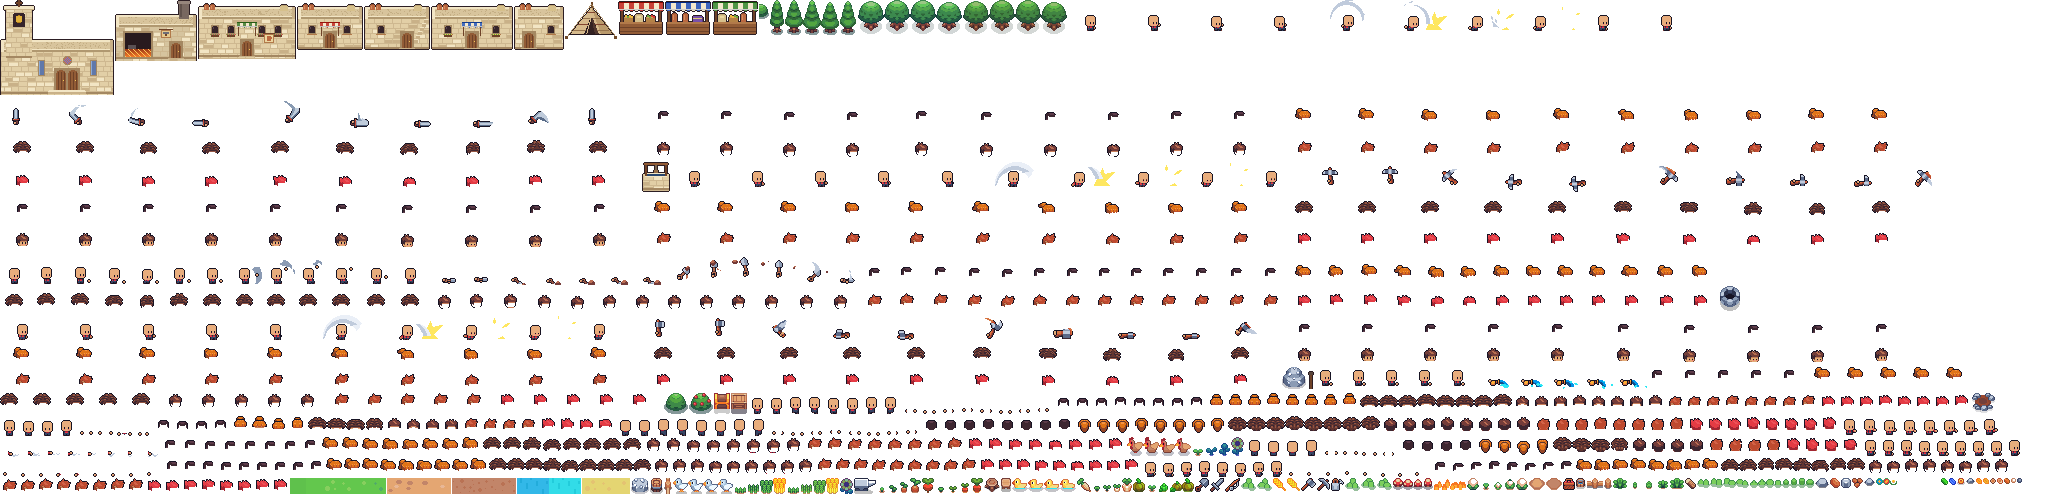
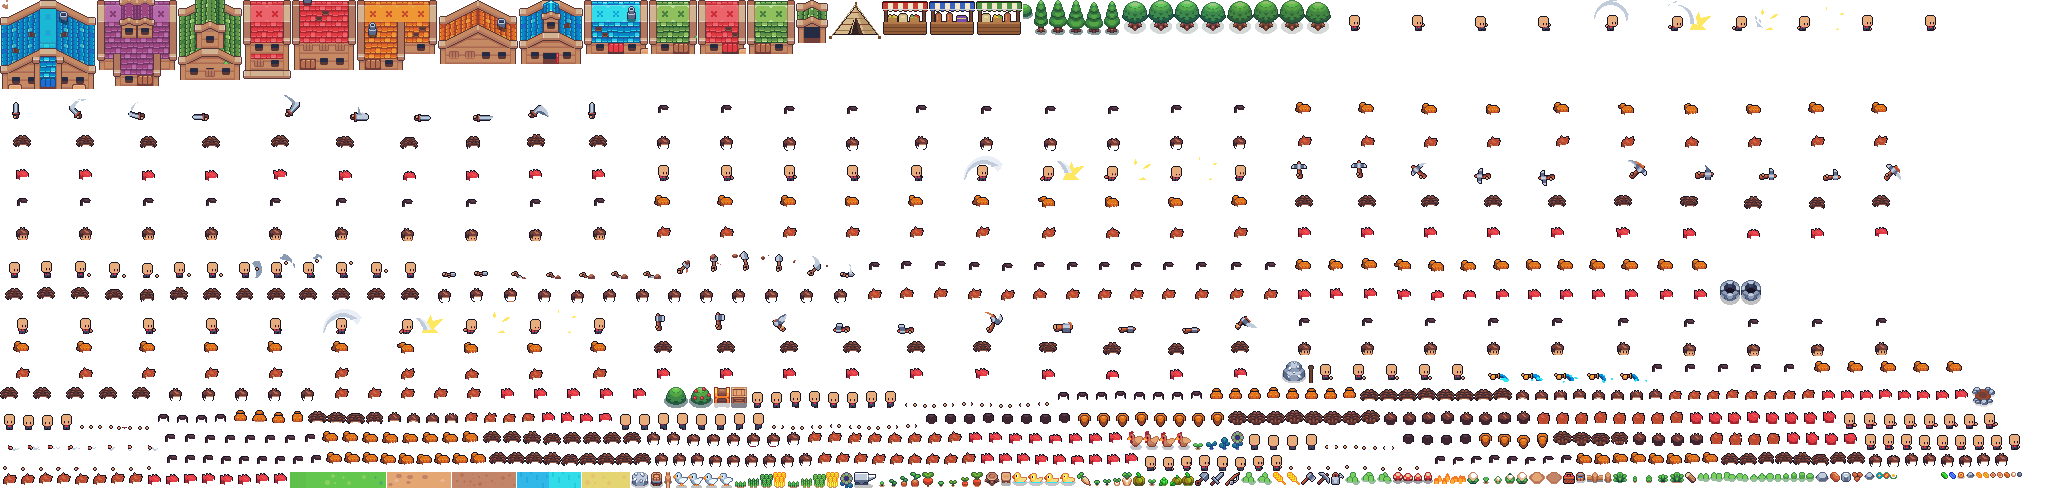
New town buildings, synagogue, carpenter with farmhouse/coop/barn, solid map borders, farm paving fix
Claude-Session: https://claude.ai/code/session_01C2kAzymCygSubPfDnKkPKq

diff --git a/public/js/world.js b/public/js/world.js
@@ -9,7 +9,7 @@ const OBJ = {
   stump: { tool: 'axe', hp: 3, solid: 1 }, twig: { tool: 'axe', hp: 1, solid: 1 },
   rock: { tool: 'pick', hp: 2, solid: 1 }, boulder: { tool: 'pick', hp: 5, solid: 1 },
   weed: { tool: 'scythe', hp: 1, solid: 1 }, grass: { tool: 'scythe', hp: 1, solid: 0 },
-  wild: { solid: 1 }, bush: { solid: 1 }, tent: { solid: 1 }, part: { solid: 1 }, campfire: { solid: 1 }, sign: { solid: 1 }, crate: { solid: 1 }, bin: { solid: 1 }, cart: { solid: 1 }, bld: { solid: 1 }, deco: { solid: 0 }, anvil: { solid: 1 }, torch: { solid: 1 }, barrel: { solid: 1 },
+  wild: { solid: 1 }, bush: { solid: 1 }, tent: { solid: 1 }, part: { solid: 1 }, campfire: { solid: 1 }, sign: { solid: 1 }, crate: { solid: 1 }, bin: { solid: 1 }, cart: { solid: 1 }, bld: { solid: 1 }, forge: { solid: 1 }, deco: { solid: 0 }, anvil: { solid: 1 }, torch: { solid: 1 }, barrel: { solid: 1 },
 };
 const World = {
   ground: null, objs: null, seed: 1,
@@ -24,7 +24,7 @@ const World = {
 
 // ---------- new farm ----------
 function genFarm(seed) {
-  const R = mulberry(seed); World.seed = seed;
+  const R = mulberry(seed); World.seed = seed; World.pave = null;
   const g = World.ground = new Uint8Array(W * H).fill(GRASS), o = World.objs = new Array(W * H).fill(null);
   const noise = (x, y, s) => { // smooth value noise
     const fx = x / s, fy = y / s, x0 = Math.floor(fx), y0 = Math.floor(fy), tx = fx - x0, ty = fy - y0, sm = t => t * t * (3 - 2 * t);
@@ -52,14 +52,15 @@ function genFarm(seed) {
   World.place(T.x + 3, T.y + 1, { t: 'campfire' });
   World.place(T.x - 3, T.y, { t: 'crate' });
   World.place(T.x + 3, T.y - 1, { t: 'bin' });
-  World.place(W - 3, World.EXIT.y - 2, { t: 'sign', text: 'East: the road to Bethlehem. Follow it to the market, the blacksmith, the inn and the church.' });
+  World.place(W - 3, World.EXIT.y - 2, { t: 'sign', text: 'East: the road to Bethlehem. Follow it to the market, the blacksmith, the inn, the carpenter and the synagogue.' });
   const keep = (x, y) => Math.hypot((x - T.x) / 5.5, (y - T.y - 1) / 4) < 1 || roadSet.has(idx(x, y));
   // forest border (cannot be cleared)
   for (let y = 0; y < H; y++) for (let x = 0; x < W; x++) {
     const edge = Math.min(x, y, W - 1 - x, H - 1 - y) + noise(x, y, 2) * 1.6;
     if (edge < 2.4 && !roadSet.has(idx(x, y)) && g[idx(x, y)] !== WATER) o[idx(x, y)] = { t: 'wild', k: pick(['oak', 'oak', 'pine', 'tree2']), v: ri(0, 3) };
-    else if (edge < 3.2 && !roadSet.has(idx(x, y)) && g[idx(x, y)] !== WATER && R() < .35) o[idx(x, y)] = { t: 'bush', v: ri(0, 1) };
+    else if (edge < 3.2 && !roadSet.has(idx(x, y)) && g[idx(x, y)] !== WATER) o[idx(x, y)] = { t: R() < .5 ? 'bush' : 'wild', k: pick(['oak', 'tree2']), v: ri(0, 1) };
   }
+  fillBorder(R);
   // overgrowth
   for (let y = 3; y < H - 3; y++) for (let x = 3; x < W - 3; x++) {
     const i = idx(x, y); if (o[i] || g[i] === WATER || keep(x, y)) continue;
@@ -172,7 +173,7 @@ const BIN = (() => {
 })();
 const SIGN = (() => { const c = mkc(16, 18), g = c.getContext('2d'); g.fillStyle = '#24141e'; g.fillRect(6, 8, 4, 10); g.fillRect(0, 0, 16, 11); g.fillStyle = '#8a5a34'; g.fillRect(7, 9, 2, 9); g.fillStyle = '#c99256'; g.fillRect(1, 1, 14, 9); g.fillStyle = '#a8703e'; g.fillRect(1, 8, 14, 2); g.fillStyle = '#6a4024'; g.fillRect(3, 3, 10, 1); g.fillRect(3, 5, 7, 1); return c })();
 function treeSprite(o, t, x, y) {
-  const set = o.t === 'olive' || (o.t === 'wild' && o.k === 'olive') ? AT.olive : (o.k === 'tree2' ? AT.tree2 : o.k === 'pine' ? AT.pine : AT.oak);
+  const set = o.t === 'olive' || (o.t === 'wild' && o.k === 'olive') ? AT.olive : (o.k === 'tree2' || o.k === 'pine' ? AT.tree2 : AT.oak);
   if (set.length === 1) return set[0];
   return set[Math.floor(t * 1.4 + hash(x, y) * 4) % set.length];
 }
@@ -195,8 +196,9 @@ function drawObject(g, o, x, y, t) {
     case 'campfire': shadow(7); spr(AT.campfire[0], 0); if (AT.fire) { const f = AT.fire[Math.floor(t * 9) % AT.fire.length]; g.drawImage(f, Math.round(cx - f.width / 2), Math.round(by - f.height - 5)) } break;
     case 'crate': shadow(7); spr(AT.crate[0], 0); break;
     case 'bin': spr(BIN, 4); break;
-    case 'bld': { const b = BLD[o.k], s = AT[b[0]][0], bx0 = x * 16 + b[1] * 8; g.fillStyle = 'rgba(30,20,10,.22)'; g.fillRect(Math.round(bx0 - s.width / 2) + 2, by - 3, s.width - 2, 4); g.drawImage(s, Math.round(bx0 - s.width / 2), by - s.height + 1); break }
+    case 'bld': { const b = BLD[o.k], s = AT[b[0]][0], bx0 = x * 16 + b[1] * 8; if (o.k === 'well') { g.fillStyle = '#5c8f3e'; g.beginPath(); g.ellipse(bx0, by - 6, 22, 11, 0, 0, 7); g.fill(); g.fillStyle = '#74b04a'; g.beginPath(); g.ellipse(bx0, by - 7, 20, 9, 0, 0, 7); g.fill() } g.fillStyle = 'rgba(30,20,10,.22)'; g.fillRect(Math.round(bx0 - s.width / 2) + 2, by - 3, s.width - 2, 4); g.drawImage(s, Math.round(bx0 - s.width / 2), by - s.height + 1); break }
     case 'anvil': shadow(6); spr(AT.anvil[0], 0); break;
+    case 'forge': shadow(7); spr(AT.campfire[0], 0); { const f = AT.fire[Math.floor(t * 10) % AT.fire.length]; g.drawImage(f, Math.round(cx - f.width / 2), Math.round(by - f.height - 5)); g.drawImage(f, Math.round(cx - f.width / 2) + 3, Math.round(by - f.height - 7)) } break;
     case 'barrel': shadow(6); spr(AT.barrel[0], 0); break;
     case 'torch': spr(AT.torch[0], 0); if (AT.fire) { const f = AT.fire[Math.floor(t * 9 + x) % AT.fire.length]; g.drawImage(f, Math.round(cx - f.width / 2), Math.round(by - 22 - f.height + 6)) } break;
     case 'cart': spr(CART, 2); break;
@@ -213,15 +215,24 @@ function storeMap(name) { World.maps[name] = { ground: World.ground, objs: World
 // ---------- Bethlehem ----------
 const TOWN = { entry: { x: 1, y: 27 }, plaza: { x: 34, y: 28 } };
 const BLD = { // sprite, width in tiles, depth in tiles (solid rows)
-  church: ['bld_church', 7, 3], smithy: ['bld_smithy', 5, 2], inn: ['bld_inn', 6, 2],
-  house1: ['bld_house1', 4, 2], house2: ['bld_house2', 4, 2], house3: ['bld_house3', 5, 2], house4: ['bld_house4', 3, 2],
-  stall_red: ['stall_red', 3, 1], stall_blue: ['stall_blue', 3, 1], stall_green: ['stall_green', 3, 1], well: ['well_big', 2, 1],
+  synagogue: ['bld_synagogue', 6, 3], smithy: ['bld_smithy', 4, 2], inn: ['bld_inn', 5, 3], carpenter: ['bld_carpenter', 5, 2],
+  houseA: ['bld_houseA', 4, 2], houseB: ['bld_houseB', 4, 2], houseC: ['bld_houseC', 4, 3], houseD: ['bld_houseD', 3, 2], houseE: ['bld_houseE', 3, 2], houseF: ['bld_houseF', 3, 3],
+  farmhouse: ['bld_farmhouse', 3, 2], barn: ['bld_barn', 5, 3], coop: ['bld_coop', 2, 2],
+  stall_red: ['stall_red', 3, 1], stall_blue: ['stall_blue', 3, 1], stall_green: ['stall_green', 3, 1], well: ['well_pack', 2, 1],
 };
 // place a building with its bottom-left cell at (x, y)
 function placeBld(x, y, k, extra) {
   const [, w, d] = BLD[k];
   for (let yy = y - d + 1; yy <= y; yy++) for (let xx = x; xx < x + w; xx++) World.objs[idx(xx, yy)] = { t: 'part', ox: x, oy: y };
   World.objs[idx(x, y)] = Object.assign({ t: 'bld', k }, extra || {});
+}
+// fill the outer ring of a map so nobody can slip between the trees at the edge
+function fillBorder(R) {
+  for (let y = 0; y < H; y++) for (let x = 0; x < W; x++) {
+    const i = idx(x, y), e = Math.min(x, y, W - 1 - x, H - 1 - y);
+    if (e > 2 || World.objs[i] || World.ground[i] === WATER || World.ground[i] === DIRT) continue;
+    World.objs[i] = e < 2 ? { t: 'wild', k: pick(['oak', 'tree2', 'oak']), v: ri(0, 3) } : { t: 'bush', v: 0 };
+  }
 }
 function genTown() {
   const g = World.ground = new Uint8Array(W * H).fill(GRASS), o = World.objs = new Array(W * H).fill(null), pv = World.pave = new Uint8Array(W * H); World.soil = {};
@@ -234,33 +245,34 @@ function genTown() {
   dirt(P.x, 12, P.x + 1, 46);                  // north-south
   dirt(P.x, 27, 58, 28);                       // east street
   dirt(16, 17, 30, 25);                        // market square
-  dirt(42, 22, 51, 25); dirt(42, 37, 50, 39);  // in front of the smithy and the inn
-  dirt(24, 12, 25, 18); dirt(24, 6, 25, 12);   // path north toward Mount Sinai
-  dirt(16, 36, 22, 38); dirt(24, 41, 29, 43); dirt(51, 31, 57, 33); dirt(12, 18, 16, 20);
-  dirt(35, 39, 42, 40); dirt(46, 25, 47, 27); dirt(22, 37, 33, 38); dirt(28, 42, 33, 43); dirt(54, 29, 55, 31);   // paths linking doors to the streets
+  dirt(24, 6, 25, 17);                         // path north toward Mount Sinai
   // paved plaza
   for (let y = P.y - 7; y <= P.y + 7; y++) for (let x = P.x - 10; x <= P.x + 10; x++) if (inb(x, y) && Math.hypot((x - P.x) / 8, (y - P.y) / 5.2) < 1) { pv[idx(x, y)] = 1; g[idx(x, y)] = DIRT }
-  // buildings
-  placeBld(31, 19, 'church');
+  // buildings (bottom-left cell) and the little paths to their doors
+  const B = [['synagogue', 31, 19], ['smithy', 44, 23], ['inn', 43, 38], ['carpenter', 13, 34],
+             ['houseA', 21, 38], ['houseB', 26, 43], ['houseC', 51, 33], ['houseD', 12, 20], ['houseE', 38, 44], ['houseF', 54, 42]];
+  for (const [k, x, y] of B) { const w = BLD[k][1]; dirt(x - 1, y + 1, x + w, y + 2) }
+  dirt(15, 29, 16, 35); dirt(22, 37, 33, 40); dirt(28, 42, 33, 45); dirt(36, 41, 37, 46); dirt(42, 39, 42, 41); dirt(36, 40, 43, 41);
+  dirt(46, 25, 47, 26); dirt(52, 29, 53, 34); dirt(55, 29, 56, 44); dirt(13, 21, 15, 23);
   placeBld(17, 22, 'stall_red', { shop: 'market' }); placeBld(21, 22, 'stall_blue', { shop: 'market' }); placeBld(25, 22, 'stall_green', { shop: 'market' });
-  placeBld(44, 23, 'smithy'); World.place(50, 23, { t: 'anvil' });
-  placeBld(43, 37, 'inn');
-  placeBld(17, 36, 'house1'); placeBld(24, 41, 'house2'); placeBld(52, 31, 'house3'); placeBld(12, 18, 'house4');
+  for (const [k, x, y] of B) placeBld(x, y, k);
+  World.place(49, 24, { t: 'anvil' }); World.place(50, 24, { t: 'forge' });
   placeBld(33, 28, 'well');
-  for (const [x, y] of [[26, 24], [42, 24], [26, 32], [42, 32], [30, 20], [38, 20], [42, 38], [49, 38], [16, 25]]) World.place(x, y, { t: 'torch' });
+  for (const [x, y] of [[26, 24], [42, 24], [26, 32], [42, 32], [30, 20], [38, 20], [42, 39], [49, 39], [16, 25], [12, 35]]) World.place(x, y, { t: 'torch' });
   World.place(2, 25, { t: 'sign', text: 'Bethlehem — “house of bread”. Your farm is back down the road to the west.' });
   World.place(26, 7, { t: 'sign', text: 'North: the road to Mount Sinai. (Not open yet.)' });
-  World.place(36, 46, { t: 'sign', text: 'South: the way to the Jordan River. (Not open yet.)' });
-  for (const [x, y, k] of [[48, 21, 'barrel'], [49, 21, 'crate'], [41, 36, 'barrel'], [50, 36, 'barrel'], [16, 21, 'crate'], [29, 21, 'barrel'], [22, 34, 'crate']]) World.place(x, y, { t: k });
-  for (const [x, y] of [[14, 24], [20, 30], [29, 36], [39, 34], [47, 30], [55, 26], [38, 15], [20, 14], [30, 44], [56, 37], [11, 33], [44, 44], [28, 10], [40, 10]]) World.place(x, y, { t: 'wild', k: 'olive', v: ri(0, 3) });
+  World.place(36, 47, { t: 'sign', text: 'South: the way to the Jordan River. (Not open yet.)' });
+  for (const [x, y, k] of [[48, 22, 'barrel'], [43, 22, 'crate'], [41, 37, 'barrel'], [48, 37, 'barrel'], [16, 21, 'crate'], [29, 21, 'barrel'], [19, 33, 'crate'], [12, 33, 'barrel'], [20, 33, 'crate']]) World.place(x, y, { t: k });
+  for (const [x, y] of [[14, 25], [20, 30], [29, 35], [39, 34], [47, 30], [55, 25], [39, 15], [20, 14], [31, 47], [58, 37], [10, 30], [45, 46], [28, 10], [40, 10], [10, 15], [57, 20]]) if (!o[idx(x, y)]) World.place(x, y, { t: 'wild', k: 'olive', v: ri(0, 3) });
   // forest edge and a few bushes
   for (let y = 0; y < H; y++) for (let x = 0; x < W; x++) {
     const i = idx(x, y); if (o[i] || g[i] === DIRT) continue;
-    const edge = Math.min(x, y, W - 1 - x, H - 1 - y) + noise(x, y, 2) * 1.6, inTown = x > 7 && x < 60 && y > 5 && y < 49;
-    if (edge < 2.4 || (!inTown && R() < .55)) o[i] = { t: 'wild', k: pick(['oak', 'oak', 'pine', 'tree2', 'olive']), v: ri(0, 3) };
+    const edge = Math.min(x, y, W - 1 - x, H - 1 - y) + noise(x, y, 2) * 1.6, inTown = x > 7 && x < 60 && y > 5 && y < 50;
+    if (edge < 2.4 || (!inTown && R() < .55)) o[i] = { t: 'wild', k: pick(['oak', 'oak', 'tree2', 'olive']), v: ri(0, 3) };
     else if (R() < .05) o[i] = { t: 'bush', v: 0 };
     else if (R() < .12) o[i] = { t: 'deco', v: ri(0, 7) };
   }
+  fillBorder(R);
 }
 // cobbled plaza
 const PAVE = (() => {

diff --git a/public/js/npc.js b/public/js/npc.js
@@ -4,7 +4,7 @@ const VILLAGERS = [
   { id: 'tobiah', name: 'Tobiah', role: 'Market merchant', shop: 'market', spot: [22.5, 24.9], roam: 1.2, look: { hair: 'curly', hairCol: 1, skin: 2, shirt: 5, pants: 0 },
     lines: ['Fresh seeds and fair prices! Well… mostly fair.', 'A heavy bag and light pockets? Let me help with that.', 'Caravans come through from Egypt to Damascus. Every one of them stops in Bethlehem for bread.', 'Barley comes in first, then wheat. Plant both and you’ll never go hungry.', 'I hear the Jordan is lovely this time of year. Not that I ever leave my stall.'],
     warm: ['You’re becoming my best customer. Don’t tell the others.', 'My father sold seeds from this very corner. Now I sell them to you.'] },
-  { id: 'jesse', name: 'Jesse', role: 'Blacksmith', shop: 'smithy', spot: [50.5, 24.8], roam: .8, look: { hair: 'short', hairCol: 0, skin: 3, shirt: 6, pants: 1 },
+  { id: 'jesse', name: 'Jesse', role: 'Blacksmith', shop: 'smithy', spot: [47.5, 25.8], roam: .8, look: { hair: 'short', hairCol: 0, skin: 3, shirt: 6, pants: 1 },
     lines: ['“Iron sharpeneth iron.” Proverbs 27:17. Bring me your tools and some shekels.', 'A dull axe takes twice the strength. Ecclesiastes says so, and so do my arms.', 'Bronze first, then iron. Each one makes the work lighter.', 'The forge never really goes cold. Neither do I.', 'Swing from the shoulders, not the wrists. Your tools will thank you.'],
     warm: ['You take good care of your tools. I can tell.', 'My grandfather taught me to hammer on this anvil. Maybe I’ll teach someone one day.'] },
   { id: 'naomi', name: 'Naomi', role: 'Widow of Bethlehem', spot: [36.5, 31.5], roam: 2.5, look: { hair: 'long', hairCol: 6, skin: 1, shirt: 4, pants: 2 },
@@ -16,12 +16,15 @@ const VILLAGERS = [
   { id: 'boaz', name: 'Boaz', role: 'Landowner', spot: [40.5, 29.2], roam: 2, look: { hair: 'short', hairCol: 6, skin: 2, shirt: 0, pants: 2 },
     lines: ['“The LORD be with you!” That’s how we greet our workers in Bethlehem.', 'A good farmer rises early and rests well. Both matter.', 'My fields are east of here. Yours will grow just as fine with patience.', 'Never trust a man who doesn’t know when his barley is ripe.', 'Generosity is the best fertilizer, I always say.'],
     warm: ['You work your land with honor. That is rare.', 'If you ever need advice about the harvest, you know where to find me.'] },
-  { id: 'simeon', name: 'Elder Simeon', role: 'Church elder', spot: [34.5, 21.2], roam: 1, look: { hair: 'mop', hairCol: 6, skin: 1, shirt: 0, pants: 0 },
-    lines: ['Welcome, child. The doors of the church are always open.', '“This is the day which the LORD hath made; we will rejoice and be glad in it.” Psalm 118:24', 'Come on the Sabbath morning. The whole town gathers here.', '“Commit thy works unto the LORD, and thy thoughts shall be established.” Proverbs 16:3', 'I have prayed for your fields. Now go water them!'],
+  { id: 'simeon', name: 'Elder Simeon', role: 'Synagogue elder', spot: [34.5, 21.2], roam: 1, look: { hair: 'mop', hairCol: 6, skin: 1, shirt: 0, pants: 0 },
+    lines: ['Welcome, child. The doors of the synagogue are always open.', '“This is the day which the LORD hath made; we will rejoice and be glad in it.” Psalm 118:24', 'Come to the synagogue on the Sabbath morning. The whole town gathers here.', '“Commit thy works unto the LORD, and thy thoughts shall be established.” Proverbs 16:3', 'I have prayed for your fields. Now go water them!'],
     warm: ['You are a blessing to this town.', 'I have seen many farmers come and go. I hope you stay.'] },
-  { id: 'miriam', name: 'Miriam', role: 'Innkeeper', shop: 'inn', spot: [46.5, 39.6], roam: 1.2, look: { hair: 'curly', hairCol: 0, skin: 3, shirt: 1, pants: 3 },
+  { id: 'miriam', name: 'Miriam', role: 'Innkeeper', shop: 'inn', spot: [45.5, 40.4], roam: 1.2, look: { hair: 'curly', hairCol: 0, skin: 3, shirt: 1, pants: 3 },
     lines: ['Hungry? A warm meal brings your strength right back.', 'Travelers sleep here every night. Some even sleep in the stable when we’re full.', 'My lentil stew is famous from here to Jerusalem.', 'Eat well, sleep well, work well. That’s my whole philosophy.', 'The fig cakes go fast. Come early!'],
     warm: ['For you, the bread is always fresh.', 'You’re always welcome at my table, friend.'] },
+  { id: 'joseph', name: 'Joseph', role: 'Carpenter', shop: 'carpenter', spot: [15.5, 36.2], roam: 1, look: { hair: 'short', hairCol: 2, skin: 2, shirt: 6, pants: 2 },
+    lines: ['A good house starts with good timber. Bring me wood and stone and I’ll build you anything.', '“Except the LORD build the house, they labour in vain that build it.” Psalm 127:1', 'Measure twice, cut once. My father taught me that.', 'My family comes from the line of David, like many here in Bethlehem.', 'A barn full of animals is a happy barn. A coop too!'],
+    warm: ['Your farm is coming along nicely. I’d like to see it someday.', 'Every beam I set, I set to last a lifetime. Yours too.'] },
 ];
 const npcs = [];   // live villagers on the town map
 function initVillagers() {
@@ -31,7 +34,7 @@ const isSabbath = () => weekday() === 'Sabbath';
 const heartsOf = id => Math.min(10, Math.floor(((state.friends || {})[id] || { pts: 0 }).pts / 20));
 // where each villager wants to be right now
 function villagerHome(n, k) {
-  if (isSabbath() && state.time >= 9 * 60 && state.time < 13 * 60) return [30 + k * 1.4, 22.6 + (k % 2) * .7, .3];     // gathered at the church
+  if (isSabbath() && state.time >= 9 * 60 && state.time < 13 * 60) return [29.5 + k * 1.3, 21.6 + (k % 2) * .8, .3];     // gathered at the synagogue
   return [n.v.spot[0], n.v.spot[1], n.v.roam];
 }
 const villagersOut = () => state.time >= 7 * 60 && state.time < 19 * 60;
@@ -67,7 +70,7 @@ async function talkTo(n) {
   await say(text, null, { name: v.name, frames: n.frames });
   if (first && heartsOf(v.id) > Math.floor((f.pts - (isSabbath() ? 8 : 5)) / 20)) { toast(`${v.name} likes you more! ♥ ${heartsOf(v.id)}`); sfx.pick() }
   n.talking = false; n.wait = 1.5;
-  if (v.shop && shopOpen(v.shop)) ({ market: openMarket, smithy: openSmithy, inn: openInn })[v.shop]();
+  if (v.shop && shopOpen(v.shop)) ({ market: openMarket, smithy: openSmithy, inn: openInn, carpenter: openCarpenter })[v.shop]();
 }
 function drawVillager(g, n) {
   const fx = n.x * 16, fy = n.y * 16; g.fillStyle = 'rgba(30,20,10,.25)'; g.beginPath(); g.ellipse(Math.round(fx), Math.round(fy), 5, 2, 0, 0, 7); g.fill();
@@ -80,7 +83,7 @@ function drawPortrait(c, frames) {
   g.save(); g.scale(3, 3); drawChar(g, frames, 'idle_s', 0, c.width / 6, c.height / 3 + 4, false); g.restore();
 }
 function peopleTab(b) {
-  let h = '<p class="muted" style="margin-top:0">Talk to villagers each day to become friends. Everyone gathers at the church on Sabbath mornings.</p>';
+  let h = '<p class="muted" style="margin-top:0">Talk to villagers each day to become friends. Everyone gathers at the synagogue on Sabbath mornings.</p>';
   for (const v of VILLAGERS) {
     const f = (state.friends || {})[v.id], hs = heartsOf(v.id);
     h += `<div class="person"><canvas width="48" height="48" data-p="${v.id}"></canvas><div class="pi"><b>${f && f.met ? v.name : '???'}</b><div class="muted">${f && f.met ? v.role : 'Not met yet'}</div><div class="hearts">${'♥'.repeat(hs)}<span>${'♥'.repeat(10 - hs)}</span></div></div></div>`;

diff --git a/public/js/game.js b/public/js/game.js
@@ -86,7 +86,7 @@ async function action() {
   const vn = villagerNear(); if (vn) { talkTo(vn); return }
   const it = interactTarget();
   if (it) {
-    if (it.o.t === 'bld' || it.o.t === 'anvil') { const k = it.o.t === 'anvil' ? 'smithy' : it.o.k; if (it.o.shop === 'market') openMarket(); else if (k === 'smithy') openSmithy(); else if (k === 'inn') openInn(); else if (k === 'church') visitChurch(); else if (k === 'well') say('The old town well. The water is cool and clear.'); else say('A villager’s home. The door is closed.'); return }
+    if (it.o.t === 'bld' || it.o.t === 'anvil') { const k = it.o.t === 'anvil' ? 'smithy' : it.o.k; if (it.o.shop === 'market') openMarket(); else if (k === 'smithy') openSmithy(); else if (k === 'inn') openInn(); else if (k === 'synagogue') visitChurch(); else if (k === 'carpenter') openCarpenter(); else if (k === 'farmhouse') { const v = await say('Your farmhouse. Go to sleep for the night?', [['Sleep', 1], ['Not yet', 0]]); if (v) goSleep() } else if (k === 'coop' || k === 'barn') say(`Your new ${k} smells of fresh timber. It’s ready for animals, which are coming soon!`); else if (k === 'well') say('The old town well. The water is cool and clear.'); else say('A villager’s home. The door is closed.'); return }
     if (it.o.t === 'tent') { const v = await say('Your tent. Go to sleep for the night?', [['Sleep', 1], ['Not yet', 0]]); if (v) goSleep(); return }
     if (it.o.t === 'sign') { say(it.o.text); return }
     if (it.o.t === 'bin') { openBin(); return }
@@ -238,7 +238,7 @@ function load() {
     else { state.px = World.TENT.x + .5; state.py = World.TENT.y + 1.7; state.newMap = 1 }   // farm map got bigger: keep your things, give you the new land
     player = mkPlayer(state.px, state.py); drops = []; (d.drops || []).forEach(([id, x, y]) => drops.push({ id, x, y, z: 0, vx: 0, vy: 0, vz: 0, t: 1 }));
     if (!state.bin) state.bin = []; if (!state.chest) state.chest = new Array(INV_SIZE).fill(null); if (state.maxE < 150) { state.energy = Math.min(150, state.energy + 150 - state.maxE); state.maxE = 150 } ensureBin(); const movedCart = removeCart(); if (state.can === undefined) state.can = CAN_MAX; giveStarter(true);
-    storeMap('farm'); useMap(state.map === 'town' ? 'town' : 'farm');
+    fillBorder(Math.random); World.objs.forEach(o => { if (o && o.t === 'sign' && /Bethlehem/.test(o.text || '')) o.text = 'East: the road to Bethlehem. Follow it to the market, the blacksmith, the inn, the carpenter and the synagogue.' }); storeMap('farm'); useMap(state.map === 'town' ? 'town' : 'farm');
     if (movedCart && state.farmStart) setTimeout(() => say('The merchant has packed up his cart and moved to the new market in Bethlehem. Follow the road east off your farm to find the town!'), 1700);
     look = buildCharacter(state.look); return true;
   } catch (e) { console.warn(e); return false }
@@ -470,7 +470,7 @@ function render() {
     lx.globalCompositeOperation = 'source-over'; lx.clearRect(0, 0, bw, bh); lx.fillStyle = `rgba(14,18,52,${dark})`; lx.fillRect(0, 0, bw, bh);
     lx.globalCompositeOperation = 'destination-out';
     const lamp = (wx, wy, r, a) => { const sx = wx * 16 - cx, sy = wy * 16 - cy; const gr = lx.createRadialGradient(sx, sy, 2, sx, sy, r); gr.addColorStop(0, `rgba(0,0,0,${a})`); gr.addColorStop(1, 'rgba(0,0,0,0)'); lx.fillStyle = gr; lx.fillRect(sx - r, sy - r, r * 2, r * 2) };
-    for (let y = Math.max(0, y0 - 4); y <= Math.min(H - 1, y1 + 4); y++) for (let x = Math.max(0, x0 - 4); x <= Math.min(W - 1, x1 + 4); x++) { const o = World.objs[idx(x, y)]; if (o && o.t === 'campfire') lamp(x + .5, y + .2, 70 + Math.sin(GT * 7) * 3, 1); if (o && o.t === 'tent') lamp(x + .5, y + .6, 26, .7); if (o && o.t === 'torch') lamp(x + .5, y - .6, 46 + Math.sin(GT * 8 + x) * 2, .95) }
+    for (let y = Math.max(0, y0 - 4); y <= Math.min(H - 1, y1 + 4); y++) for (let x = Math.max(0, x0 - 4); x <= Math.min(W - 1, x1 + 4); x++) { const o = World.objs[idx(x, y)]; if (o && o.t === 'campfire') lamp(x + .5, y + .2, 70 + Math.sin(GT * 7) * 3, 1); if (o && (o.t === 'tent' || (o.t === 'bld' && o.k === 'farmhouse'))) lamp(x + .5, y + .6, 30, .75); if (o && o.t === 'torch') lamp(x + .5, y - .6, 46 + Math.sin(GT * 8 + x) * 2, .95) }
     if (showPlayer) lamp(player.x, player.y - .5, 34, .55);
     ctx.drawImage(light, -ox, -oy, bw * SC, bh * SC);
     if (dark > .3) { ctx.globalCompositeOperation = 'lighter'; for (let k = 0; k < 14; k++) { const fx = (hash(k, 1) * W * 16 + Math.sin(GT * .4 + k) * 20 - cxf) * SC, fy = (hash(k, 2) * H * 16 + Math.cos(GT * .3 + k) * 14 - cyf) * SC; if (fx < 0 || fy < 0 || fx > cv.width || fy > cv.height) continue; ctx.fillStyle = `rgba(255,240,120,${.5 + .5 * Math.sin(GT * 3 + k * 2)})`; ctx.fillRect(Math.round(fx), Math.round(fy), SC, SC) } ctx.globalCompositeOperation = 'source-over' }
@@ -496,7 +496,7 @@ function showTitle() {
 function newGame() { $('#title').classList.remove('on'); openCreator(lk => { const seed = ri(1, 1e9); genFarm(seed); World.soil = {}; storeMap('farm'); useMap('farm'); state = G.state = freshState(lk, seed); player = mkPlayer(state.px, state.py); look = buildCharacter(lk); drops = []; save(); startPlay(true) }) }
 function startPlay(fresh) {
   mode = 'play'; paused = false; $('#title').classList.remove('on'); $('#hud').classList.add('on'); snapCam(); hudSig = ''; updateHUD();
-  if (fresh) { banner(state.look.farm); setTimeout(() => say(`Welcome to ${state.look.farm}, ${state.look.name}! This little plot outside Bethlehem is yours now. It's overgrown, but your axe, pickaxe and scythe can clear it. Dig soil with the hoe, plant the wheat seeds waiting in your storage chest, and water them every day. Sell what you grow in the shipping bin. The road east leads to Bethlehem, with a market, a blacksmith, an inn and a church. Sleep in your tent when the day is done.`), 900) }
+  if (fresh) { banner(state.look.farm); setTimeout(() => say(`Welcome to ${state.look.farm}, ${state.look.name}! This little plot outside Bethlehem is yours now. It's overgrown, but your axe, pickaxe and scythe can clear it. Dig soil with the hoe, plant the wheat seeds waiting in your storage chest, and water them every day. Sell what you grow in the shipping bin. The road east leads to Bethlehem, with a market, a blacksmith, an inn, a carpenter and a synagogue. Sleep in your tent when the day is done.`), 900) }
   else { banner(`${weekday()}, ${SEASONS[state.season]} ${state.day}`); if (state.newMap) { delete state.newMap; save(); setTimeout(() => say('Your farm has grown! The land is bigger now, and the wild has crept back in. Your tools, items and shekels are all still with you.'), 900) } }
 }
 let last = 0, hudT = 0;

diff --git a/public/js/town.js b/public/js/town.js
@@ -27,7 +27,7 @@ const rowLen = id => [0, 1, 3, 5][toolLv(id)];
 function toolName(id) { const lv = toolLv(id); return (lv > 1 && UPG_TOOLS[id] ? TOOL_LV[lv] + ' ' : '') + ITEMS[id].n }
 
 // ---------- opening hours ----------
-const HOURS = { market: [8, 18, 'Market'], smithy: [9, 17, 'Blacksmith'], inn: [8, 24, 'Inn'] };
+const HOURS = { market: [8, 18, 'Market'], smithy: [9, 17, 'Blacksmith'], inn: [8, 24, 'Inn'], carpenter: [9, 17, 'Carpenter'] };
 function shopOpen(k) { const [a, b] = HOURS[k]; if (k !== 'inn' && isSabbath()) return false; return state.time >= a * 60 && state.time < b * 60 }
 function closedMsg(k) { const [a, b, n] = HOURS[k]; return isSabbath() && k !== 'inn' ? `The ${n.toLowerCase()} is closed for the Sabbath. Come back tomorrow.` : `The ${n.toLowerCase()} is closed. Open ${a % 12 || 12}${a < 12 ? ' am' : ' pm'} to ${b % 12 || 12}${b < 12 || b === 24 ? (b === 24 ? ' midnight' : ' am') : ' pm'}.` }
 function openShopModal(title, render) { menuOpen = true; boxMode = 'town'; $('#binM .ttl').textContent = title; $('#binM').classList.add('on'); sfx.tap(); townRender = render; render() }
@@ -81,6 +81,38 @@ function renderInn() {
   b.innerHTML = h;
   b.querySelectorAll('[data-food]').forEach(el => el.onclick = () => { const k = el.dataset.food; if (state.money < FOODS[k].cost) return; if (addItem(k, 1)) { toast('Your bag is full.'); return } state.money -= FOODS[k].cost; sfx.pick(); renderInn() });
 }
+// ---------- the carpenter ----------
+const CARP = [
+  { id: 'farmhouse', n: 'Farmhouse', d: 'Replace your tent with a cozy wooden house. Sleeping there gives +30 max energy.', money: 3000, wood: 150, stone: 50 },
+  { id: 'coop', n: 'Chicken Coop', d: 'A home for chickens, west of your tent. Chickens are coming soon.', money: 1500, wood: 100, stone: 30 },
+  { id: 'barn', n: 'Barn', d: 'A home for goats, sheep and cattle, east of your tent. Animals are coming soon.', money: 3500, wood: 200, stone: 100 },
+];
+function openCarpenter() { if (!shopOpen('carpenter')) { say(closedMsg('carpenter')); return } openShopModal("Joseph’s Workshop", renderCarpenter) }
+function renderCarpenter() {
+  const b = $('#binM .mbody'); let h = `<div class="binhead"><span>Build on your farm</span>${money()}</div><p class="muted" style="margin:2px 0 8px">“Bring me timber and stone and I’ll have it standing on your farm by the time you get home.”</p>`;
+  for (const c of CARP) {
+    const done = (state.built || {})[c.id], ok = state.money >= c.money && count('wood') >= c.wood && count('stone') >= c.stone;
+    h += `<div class="shoprow"><img class="bimg" src="${bldIcon(c.id)}"><div class="si"><b>${c.n}</b><div class="muted">${c.d}</div>${done ? '<div class="req ok">Built ✓</div>' : `<div class="req"><span class="${state.money >= c.money ? 'ok' : 'no'}">₪ ${c.money.toLocaleString()}</span> · <span class="${count('wood') >= c.wood ? 'ok' : 'no'}">${c.wood} wood</span> · <span class="${count('stone') >= c.stone ? 'ok' : 'no'}">${c.stone} stone</span></div>`}</div>${done ? '' : `<div class="sb"><button class="btn" data-build="${c.id}" ${ok ? '' : 'disabled'}>Build</button></div>`}</div>`;
+  }
+  b.innerHTML = h;
+  b.querySelectorAll('[data-build]').forEach(el => el.onclick = () => {
+    const c = CARP.find(q => q.id === el.dataset.build); if ((state.built || {})[c.id] || state.money < c.money || count('wood') < c.wood || count('stone') < c.stone) return;
+    state.money -= c.money; takeItem('wood', c.wood); takeItem('stone', c.stone); (state.built = state.built || {})[c.id] = 1; farmBuild(c.id);
+    if (c.id === 'farmhouse') { state.maxE += 30; state.energy += 30 }
+    sfx.chop(); setTimeout(() => sfx.chop(), 160); setTimeout(() => { sfx.pick(); toast(`Your ${c.n.toLowerCase()} is built on your farm!`) }, 340); renderCarpenter(); save();
+  });
+}
+const bldIconCache = {};
+function bldIcon(id) { if (bldIconCache[id]) return bldIconCache[id]; const s = AT['bld_' + id][0], c = mkc(40, 40), g = c.getContext('2d'), k = Math.min(40 / s.width, 40 / s.height); g.imageSmoothingEnabled = false; g.drawImage(s, (40 - s.width * k) / 2, 40 - s.height * k, s.width * k, s.height * k); return bldIconCache[id] = c.toDataURL() }
+// put a building on the farm map (works from town too), clearing whatever was in the way
+function farmBuild(id) {
+  const prev = World.cur; useMap('farm'); const T = World.TENT;
+  const clear = (x0, y0, x1, y1) => { for (let y = y0; y <= y1; y++) for (let x = x0; x <= x1; x++) if (inb(x, y)) { const o = World.objs[idx(x, y)]; if (o && !['bin', 'crate', 'campfire'].includes(o.t)) World.objs[idx(x, y)] = null; delete World.soil[idx(x, y)]; if (World.ground[idx(x, y)] === WATER) World.ground[idx(x, y)] = DIRT } };
+  if (id === 'farmhouse') { clear(T.x - 1, T.y - 1, T.x + 1, T.y); placeBld(T.x - 1, T.y, 'farmhouse') }
+  if (id === 'coop') { clear(T.x - 10, T.y - 1, T.x - 7, T.y + 3); placeBld(T.x - 9, T.y + 1, 'coop') }
+  if (id === 'barn') { clear(T.x + 5, T.y - 2, T.x + 11, T.y + 3); placeBld(T.x + 6, T.y + 1, 'barn') }
+  useMap(prev);
+}
 const VERSES = [['The LORD is my shepherd; I shall not want.', 'Psalm 23:1'], ['Whatsoever a man soweth, that shall he also reap.', 'Galatians 6:7'], ['He that tilleth his land shall have plenty of bread.', 'Proverbs 12:11'], ['While the earth remaineth, seedtime and harvest… shall not cease.', 'Genesis 8:22'], ['Consider the lilies of the field, how they grow; they toil not, neither do they spin.', 'Matthew 6:28'], ['I have planted, Apollos watered; but God gave the increase.', '1 Corinthians 3:6'], ['Come unto me, all ye that labour and are heavy laden, and I will give you rest.', 'Matthew 11:28']];
 async function visitChurch() {
   const v = VERSES[(state.totalDay - 1) % VERSES.length];
@@ -93,5 +125,5 @@ async function visitChurch() {
     await say(`You worshipped with the whole town. Elder Simeon read: “${v[0]}” (${v[1]}). You feel completely rested, and everyone is glad you came.`);
     return;
   }
-  await say(`The church is quiet and cool inside. A verse is written by the door today: “${v[0]}” (${v[1]})`);
+  await say(`The synagogue is quiet and cool inside. A verse is written by the door today: “${v[0]}” (${v[1]})`);
 }

diff --git a/public/sw.js b/public/sw.js
@@ -1,5 +1,5 @@
 // Network first, fall back to cache so the game still opens offline.
-const CACHE='mlpl-v10';
+const CACHE='mlpl-v11';
 self.addEventListener('install',e=>self.skipWaiting());
 self.addEventListener('activate',e=>e.waitUntil(caches.keys().then(ks=>Promise.all(ks.filter(k=>k!==CACHE).map(k=>caches.delete(k)))).then(()=>self.clients.claim())));
 self.addEventListener('fetch',e=>{if(e.request.method!=='GET')return;e.respondWith(fetch(e.request).then(r=>{const c=r.clone();caches.open(CACHE).then(ca=>ca.put(e.request,c));return r}).catch(()=>caches.match(e.request)))});

diff --git a/public/css/style.css b/public/css/style.css
@@ -210,3 +210,5 @@ button{font:inherit;cursor:pointer}
 .person{display:flex;gap:10px;align-items:center;background:#fbe6bf;border-radius:8px;padding:6px 8px;margin-bottom:6px;box-shadow:inset 0 0 0 2px #e8c48a}
 .person canvas{width:48px;height:48px;image-rendering:pixelated;background:#cfe7a8;border-radius:6px}
 .person .pi{flex:1}.hearts{color:#e0405a;font-size:15px;letter-spacing:1px}.hearts span{color:#e3c9a0}
+
+.shoprow img.bimg{width:44px;height:44px}

diff --git a/tools/room_buildings.py b/tools/room_buildings.py
@@ -1,0 +1,68 @@
+"""Cut finished buildings out of the art pack's own example room (GameMaker tile data),
+so the town uses houses exactly as the artist assembled them."""
+import json, re, glob, os
+import numpy as np
+from PIL import Image
+from scipy import ndimage
+GM = '/home/claude/assets/sunny/Sunnyside_World_ASSET_PACK_V2.1/Sunnyside_World_Gamemaker/'
+def lj(p):
+    t = open(p).read(); t = re.sub(r',(\s*[}\]])', r'\1', t); return json.loads(t)
+def decode(tl):
+    if 'TileCompressedData' in tl:
+        a = tl['TileCompressedData']; out = []; i = 0
+        while i < len(a):
+            n = a[i]
+            if n < 0: out += [a[i + 1]] * (-n); i += 2
+            else: out += a[i + 1:i + 1 + n]; i += 1 + n
+        return out
+    return tl['TileSerialiseData']
+TS = Image.open(glob.glob(GM + 'sprites/spr_tileset_sunnysideworld/*.png')[0]).convert('RGBA')
+def render(layer):
+    tl = layer['tiles']; w, h = tl['SerialiseWidth'], tl['SerialiseHeight']; data = decode(tl); cols = TS.width // 16
+    out = Image.new('RGBA', (w * 16, h * 16))
+    for k, v in enumerate(data):
+        if v <= 0: continue
+        i = v & 0x7FFFF
+        if not i: continue
+        t = TS.crop(((i % cols) * 16, (i // cols) * 16, (i % cols) * 16 + 16, (i // cols) * 16 + 16))
+        if v & (1 << 28): t = t.transpose(Image.FLIP_LEFT_RIGHT)
+        if v & (1 << 29): t = t.transpose(Image.FLIP_TOP_BOTTOM)
+        out.alpha_composite(t, ((k % w) * 16, (k // w) * 16))
+    return out
+def room_layers():
+    d = lj(GM + 'rooms/Room1/Room1.yy'); L = {l['name']: l for l in d['layers'] if l.get('resourceType') == 'GMRTileLayer' and l.get('tilesetId') and l['tilesetId']['name'] == 'tileset_sunnysideworld'}
+    return {n: render(l) for n, l in L.items()}
+def components():
+    L = room_layers(); b = Image.new('RGBA', L['building'].size); b.alpha_composite(L['building']); b.alpha_composite(L['walls'])
+    a = np.array(b)[..., 3] > 0; lab, n = ndimage.label(a, structure=np.ones((3, 3)))
+    out = []
+    for sl in ndimage.find_objects(lab):
+        ys, xs = sl; out.append((xs.start, ys.start, xs.stop, ys.stop))
+    return L, b, out
+def cut(L, box):
+    """building + walls, plus decoration tiles (doors, chimneys, dormers) inside the box.
+    Plants standing on the ground in the bottom row are left out."""
+    im = Image.new('RGBA', L['building'].size)
+    for n in ('building', 'walls'): im.alpha_composite(L[n])
+    deco = L['decoration_02'].copy(); x0, y0, x1, y1 = box
+    a = np.array(deco)
+    for ty in range(y0 // 16, (y1 + 15) // 16):
+        for tx in range(x0 // 16, (x1 + 15) // 16):
+            t = a[ty * 16:(ty + 1) * 16, tx * 16:(tx + 1) * 16]
+            px = t[t[..., 3] > 0]
+            if not len(px): continue
+            green = ((px[:, 1].astype(int) > px[:, 0].astype(int) + 25) & (px[:, 1].astype(int) > px[:, 2].astype(int))).mean()
+            yellow = ((px[:, 0] > 200) & (px[:, 1] > 170) & (px[:, 2] < 90)).mean()
+            if ty * 16 + 16 >= y1 - 2 and (green > .25 or yellow > .15): a[ty * 16:(ty + 1) * 16, tx * 16:(tx + 1) * 16] = 0
+    im.alpha_composite(Image.fromarray(a, 'RGBA'))
+    c = im.crop(box); bb = c.getbbox(); return c.crop(bb) if bb else c
+
+PICK = {'bld_synagogue': 12, 'bld_inn': 3, 'bld_carpenter': 24, 'bld_smithy': 11, 'bld_houseA': 20, 'bld_houseB': 22, 'bld_houseC': 14,
+        'bld_houseD': 5, 'bld_houseE': 10, 'bld_houseF': 29, 'bld_farmhouse': 19, 'bld_barn': 23, 'bld_coop': 6}
+def pack_buildings():
+    L, b, comps = components(); comps = sorted([c for c in comps if (c[2] - c[0]) * (c[3] - c[1]) > 600])
+    return {k: cut(L, comps[i]) for k, i in PICK.items()}
+if __name__ == '__main__':
+    L, b, comps = components()
+    comps = [c for c in comps if (c[2] - c[0]) * (c[3] - c[1]) > 600]
+    for k, c in enumerate(sorted(comps)): print(k, c, c[2] - c[0], c[3] - c[1])

diff --git a/tools/build_atlas.py b/tools/build_atlas.py
@@ -116,7 +116,10 @@ E['soil_dry'] = Image.open(CR + 'soil_00.png').convert('RGBA'); E['soil_wet'] = 
 
 # ---------- Bethlehem buildings (drawn for this game, see buildings.py) ----------
 from buildings import build_all
-E.update(build_all())
+from room_buildings import pack_buildings
+E.update({k: v for k, v in build_all().items() if k.startswith('stall_') or k == 'torch'})
+E.update(pack_buildings())
+E['well_pack'] = trim(gm('spr_deco_well'))
 E['anvil'] = trim(gm('spr_deco_anvil'))
 
 # ---------- item icons ----------

diff --git a/README.md b/README.md
@@ -6,7 +6,7 @@ A cozy Stardew Valley–style farming game set on a farm outside Bethlehem, made
 
 **Step 2 (farming):** dig soil with the hoe, plant seeds, water every day with the watering can (refill at the pond), harvest when ripe, sell in the shipping bin. Spring crops: wheat, barley, leeks, garlic. Seeds from the merchant's cart by the tent. Storage chest beside the tent.
 
-**Step 3 (Bethlehem):** the road east off the farm leads to town: Tobiah's market (seeds, sell produce), Jesse's forge (Bronze and Iron tool upgrades), Miriam's inn (food for energy), the church (daily verse; Sabbath service restores energy and builds friendship), and seven villagers to befriend. Shops close on the Sabbath, except the inn.
+**Step 3 (Bethlehem):** the road east off the farm leads to town: Tobiah's market (seeds, sell produce), Jesse's forge (Bronze and Iron tool upgrades), Miriam's inn (food for energy), the synagogue (daily verse; Sabbath service restores energy and builds friendship), and seven villagers to befriend. Shops close on the Sabbath, except the inn.
 
 Controls: drag on the left side of the screen to walk, the big button uses your tool (or talks/uses things when a ! shows), the small button switches tools, and the toolbar picks items.
 
@@ -18,7 +18,7 @@ Controls: drag on the left side of the screen to walk, the big button uses your 
 - `public/js/world.js` — the farm map and terrain drawing
 - `public/js/farming.js` — soil, watering, crops
 - `public/js/npc.js` — villagers, friendship, dialogue
-- `public/js/town.js` — market, blacksmith, inn, church
+- `public/js/town.js` — market, blacksmith, inn, synagogue
 - `tools/buildings.py` — pixel-art Bethlehem buildings
 - `public/js/game.js` — player, tools, time, HUD, saving
 - `public/art/` — sprite sheet built by `tools/build_atlas.py`
